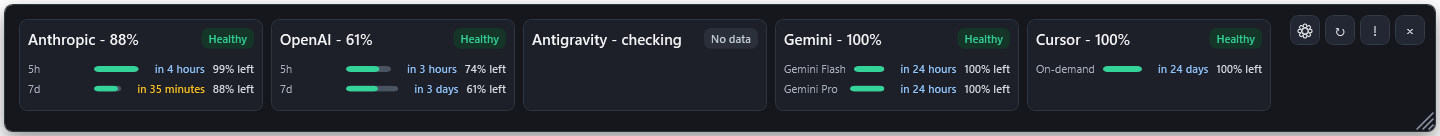
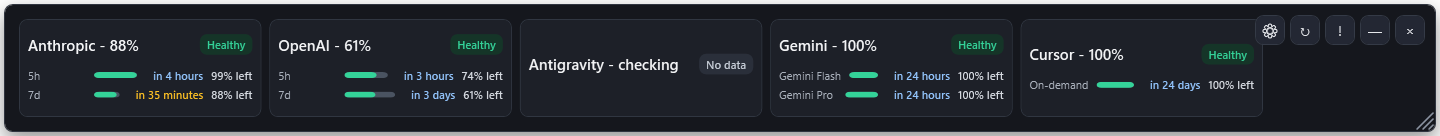
Settings: single scroll surface (wheel fix), scale-label spacing, hide min/max buttons; overlay: minimize-to-taskbar button + Always-on-top setting (dropped while Settings open)

diff --git a/Views/SettingsWindow.xaml b/Views/SettingsWindow.xaml
@@ -29,7 +29,7 @@
             <ScrollViewer Grid.Row="1"
                           Margin="0,22,0,16"
                           VerticalScrollBarVisibility="Auto">
-                <StackPanel>
+                <StackPanel Margin="0,0,8,0">
                     <StackPanel>
                         <TextBlock Text="Update interval"
                                    FontSize="13"
@@ -107,10 +107,7 @@
                                 BorderBrush="#303641"
                                 BorderThickness="1"
                                 CornerRadius="8">
-                            <ScrollViewer MaxHeight="380"
-                                          VerticalScrollBarVisibility="Auto"
-                                          HorizontalScrollBarVisibility="Disabled">
-                                <StackPanel>
+                            <StackPanel>
                                     <Border Padding="12"
                                             BorderBrush="#2A303A"
                                             BorderThickness="0,0,0,1">
@@ -272,9 +269,20 @@
                                                     Click="CursorSetupButtonOnClick" />
                                         </Grid>
                                     </Border>
-                                </StackPanel>
-                            </ScrollViewer>
+                            </StackPanel>
                         </Border>
+                    </StackPanel>
+
+                    <StackPanel Margin="0,22,0,0">
+                        <CheckBox x:Name="AlwaysOnTopCheckBox"
+                                  Content="Always on top"
+                                  Foreground="#D6DAE1"
+                                  FontSize="13" />
+                        <TextBlock Margin="24,4,0,0"
+                                   Text="Keeps the overlay window above other windows. Turn off to let it behave like a normal window."
+                                   Foreground="#8B93A1"
+                                   FontSize="12"
+                                   TextWrapping="Wrap" />
                     </StackPanel>
 
                     <StackPanel Margin="0,22,0,0">

diff --git a/Views/UsageOverlayWindow.xaml b/Views/UsageOverlayWindow.xaml
@@ -351,6 +351,10 @@
                                 Style="{StaticResource IconButtonStyle}"
                                 ToolTip="Logs"
                                 Click="LogsButtonOnClick" />
+                        <Button Content="—"
+                                Style="{StaticResource IconButtonStyle}"
+                                ToolTip="Minimize"
+                                Click="MinimizeButtonOnClick" />
                         <Button Content="×"
                                 Style="{StaticResource IconButtonStyle}"
                                 ToolTip="Hide"
@@ -692,6 +696,10 @@
                             Style="{StaticResource IconButtonStyle}"
                             ToolTip="Logs"
                             Click="LogsButtonOnClick" />
+                    <Button Content="—"
+                            Style="{StaticResource IconButtonStyle}"
+                            ToolTip="Minimize"
+                            Click="MinimizeButtonOnClick" />
                     <Button Content="×"
                             Style="{StaticResource IconButtonStyle}"
                             ToolTip="Hide"

diff --git a/Services/TrayIconService.cs b/Services/TrayIconService.cs
@@ -119,7 +119,7 @@ public sealed class TrayIconService : IDisposable
 
     private void ToggleOverlay()
     {
-        if (_overlayWindow?.IsVisible == true)
+        if (_overlayWindow?.IsVisible == true && _overlayWindow.WindowState != WindowState.Minimized)
         {
             SaveOverlayWindowPlacement();
             _overlayWindow.Hide();
@@ -146,6 +146,11 @@ public sealed class TrayIconService : IDisposable
             _overlayWindow!.EnsureValidPlacement();
         }
 
+        if (_overlayWindow!.WindowState == WindowState.Minimized)
+        {
+            _overlayWindow.WindowState = WindowState.Normal;
+        }
+
         _overlayWindow!.Show();
         _overlayWindow.Activate();
         _overlayWindow.Focus();
@@ -164,6 +169,7 @@ public sealed class TrayIconService : IDisposable
             DataContext = _viewModel
         };
         _overlayWindow.ApplyUiScalePercent(_settings.UiScalePercent);
+        _overlayWindow.ApplyAlwaysOnTop(_settings.AlwaysOnTop);
         _overlayWindow.ApplyStartupPlacement(_settings.OverlayWindowPlacement);
         _overlayWindow.ReloadRequested += (_, _) => _ = ManualRefreshAsync();
         _overlayWindow.SettingsRequested += (_, _) => ShowSettings();
@@ -249,6 +255,11 @@ public sealed class TrayIconService : IDisposable
             return;
         }
 
+        if (window.WindowState == WindowState.Minimized)
+        {
+            return;
+        }
+
         try
         {
             _settings.OverlayWindowPlacement = window.GetCurrentPlacement();
@@ -314,6 +325,9 @@ public sealed class TrayIconService : IDisposable
         BeginOverlayScalePreview();
         settingsWindow.UiScalePreviewChanged += SettingsWindowOnUiScalePreviewChanged;
 
+        // Drop always-on-top while Settings is open so provider setup pages/browsers aren't hidden behind the overlay.
+        _overlayWindow?.ApplyAlwaysOnTop(false);
+
         try
         {
             saved = settingsWindow.ShowDialog() == true;
@@ -327,6 +341,9 @@ public sealed class TrayIconService : IDisposable
                 RestoreOverlayScalePreview(originalUiScalePercent, originalOverlayPlacement);
                 EndOverlayScalePreview();
             }
+
+            // Restore always-on-top to the current setting (still the original here; the saved path re-applies any change).
+            _overlayWindow?.ApplyAlwaysOnTop(_settings.AlwaysOnTop);
         }
 
         if (!saved)
@@ -336,6 +353,7 @@ public sealed class TrayIconService : IDisposable
 
         _settings = settingsWindow.Settings;
         _overlayWindow?.ApplyUiScalePercent(_settings.UiScalePercent);
+        _overlayWindow?.ApplyAlwaysOnTop(_settings.AlwaysOnTop);
         if (_overlayWindow is not null)
         {
             _settings.OverlayWindowPlacement = _overlayWindow.GetCurrentPlacement();

diff --git a/Views/SettingsWindow.xaml.cs b/Views/SettingsWindow.xaml.cs
@@ -1,4 +1,6 @@
+using System.Runtime.InteropServices;
 using System.Windows;
+using System.Windows.Interop;
 using AIUsageMonitor.Models;
 using AIUsageMonitor.Services;
 using WpfButton = System.Windows.Controls.Button;
@@ -31,6 +33,7 @@ public partial class SettingsWindow : Window
         ClaudeStatusExporterCheckBox.IsChecked = Settings.ClaudeStatusExporterEnabled;
         AutoRunAtLoginCheckBox.IsChecked = Settings.AutoRunAtLoginEnabled || Services.AutoRunService.IsEnabled();
         DiagnosticLoggingCheckBox.IsChecked = Settings.DiagnosticLoggingEnabled;
+        AlwaysOnTopCheckBox.IsChecked = Settings.AlwaysOnTop;
         UpdateIntervalTextBox.SelectAll();
         UpdateIntervalTextBox.Focus();
     }
@@ -205,6 +208,7 @@ public partial class SettingsWindow : Window
         Settings.ClaudeStatusExporterEnabled = ClaudeStatusExporterCheckBox.IsChecked == true;
         Settings.AutoRunAtLoginEnabled = AutoRunAtLoginCheckBox.IsChecked == true;
         Settings.DiagnosticLoggingEnabled = DiagnosticLoggingCheckBox.IsChecked == true;
+        Settings.AlwaysOnTop = AlwaysOnTopCheckBox.IsChecked == true;
         MergeSavedCursorDashboardLogin();
         Settings.Normalize();
     }
@@ -271,6 +275,34 @@ public partial class SettingsWindow : Window
         Settings.CursorDashboardCookieHeaderProtected = savedSettings.CursorDashboardCookieHeaderProtected;
         Settings.CursorDashboardCookiesCapturedAt = savedSettings.CursorDashboardCookiesCapturedAt;
     }
+
+    protected override void OnSourceInitialized(EventArgs e)
+    {
+        base.OnSourceInitialized(e);
+        RemoveMinimizeMaximizeButtons();
+    }
+
+    private void RemoveMinimizeMaximizeButtons()
+    {
+        var handle = new WindowInteropHelper(this).Handle;
+        if (handle == IntPtr.Zero)
+        {
+            return;
+        }
+
+        var style = GetWindowLong(handle, GwlStyle);
+        SetWindowLong(handle, GwlStyle, style & ~WsMaximizeBox & ~WsMinimizeBox);
+    }
+
+    private const int GwlStyle = -16;
+    private const int WsMinimizeBox = 0x00020000;
+    private const int WsMaximizeBox = 0x00010000;
+
+    [DllImport("user32.dll")]
+    private static extern int GetWindowLong(IntPtr hWnd, int nIndex);
+
+    [DllImport("user32.dll")]
+    private static extern int SetWindowLong(IntPtr hWnd, int nIndex, int dwNewLong);
 
     private sealed record ProviderSetupInfo(
         string Title,

diff --git a/Views/UsageOverlayWindow.xaml.cs b/Views/UsageOverlayWindow.xaml.cs
@@ -117,6 +117,7 @@ public partial class UsageOverlayWindow : Window
         Loaded += WindowOnLoaded;
         IsVisibleChanged += WindowOnIsVisibleChanged;
         SizeChanged += WindowOnSizeChanged;
+        StateChanged += WindowOnStateChanged;
         DataContextChanged += WindowOnDataContextChanged;
     }
 
@@ -259,6 +260,21 @@ public partial class UsageOverlayWindow : Window
         UiScale = scale;
     }
 
+    public void ApplyAlwaysOnTop(bool alwaysOnTop)
+    {
+        Topmost = alwaysOnTop;
+        if (alwaysOnTop)
+        {
+            EnsureTopmost();
+        }
+    }
+
+    private void MinimizeButtonOnClick(object sender, RoutedEventArgs e)
+    {
+        ShowInTaskbar = true;
+        WindowState = WindowState.Minimized;
+    }
+
     private void HideButtonOnClick(object sender, RoutedEventArgs e)
     {
         Hide();
@@ -375,6 +391,18 @@ public partial class UsageOverlayWindow : Window
         {
             Dispatcher.BeginInvoke(new Action(EnsureTopmost), DispatcherPriority.Loaded);
         }
+    }
+
+    private void WindowOnStateChanged(object? sender, EventArgs e)
+    {
+        if (WindowState == WindowState.Minimized)
+        {
+            ShowInTaskbar = true;
+            return;
+        }
+
+        ShowInTaskbar = false;
+        EnsureTopmost();
     }
 
     private void WindowOnSizeChanged(object sender, SizeChangedEventArgs e)

diff --git a/Models/AppSettings.cs b/Models/AppSettings.cs
@@ -35,6 +35,8 @@ public sealed class AppSettings
 
     public bool DiagnosticLoggingEnabled { get; set; }
 
+    public bool AlwaysOnTop { get; set; } = true;
+
     public OverlayWindowPlacement OverlayWindowPlacement { get; set; } = new();
 
     public AppSettings Clone()
@@ -52,6 +54,7 @@ public sealed class AppSettings
             ClaudeStatusExporterEnabled = ClaudeStatusExporterEnabled,
             AutoRunAtLoginEnabled = AutoRunAtLoginEnabled,
             DiagnosticLoggingEnabled = DiagnosticLoggingEnabled,
+            AlwaysOnTop = AlwaysOnTop,
             OverlayWindowPlacement = OverlayWindowPlacement?.Clone() ?? new OverlayWindowPlacement()
         };
     }

diff --git a/tests/AIUsageMonitor.Tests/AppSettingsTests.cs b/tests/AIUsageMonitor.Tests/AppSettingsTests.cs
@@ -87,4 +87,25 @@ public sealed class AppSettingsTests
 
         Assert.IsTrue(clone.DiagnosticLoggingEnabled);
     }
+
+    [TestMethod]
+    public void AlwaysOnTopDefaultsToTrue()
+    {
+        var settings = new AppSettings();
+
+        Assert.IsTrue(settings.AlwaysOnTop);
+    }
+
+    [TestMethod]
+    public void CloneCopiesAlwaysOnTop()
+    {
+        var settings = new AppSettings
+        {
+            AlwaysOnTop = false
+        };
+
+        var clone = settings.Clone();
+
+        Assert.IsFalse(clone.AlwaysOnTop);
+    }
 }
